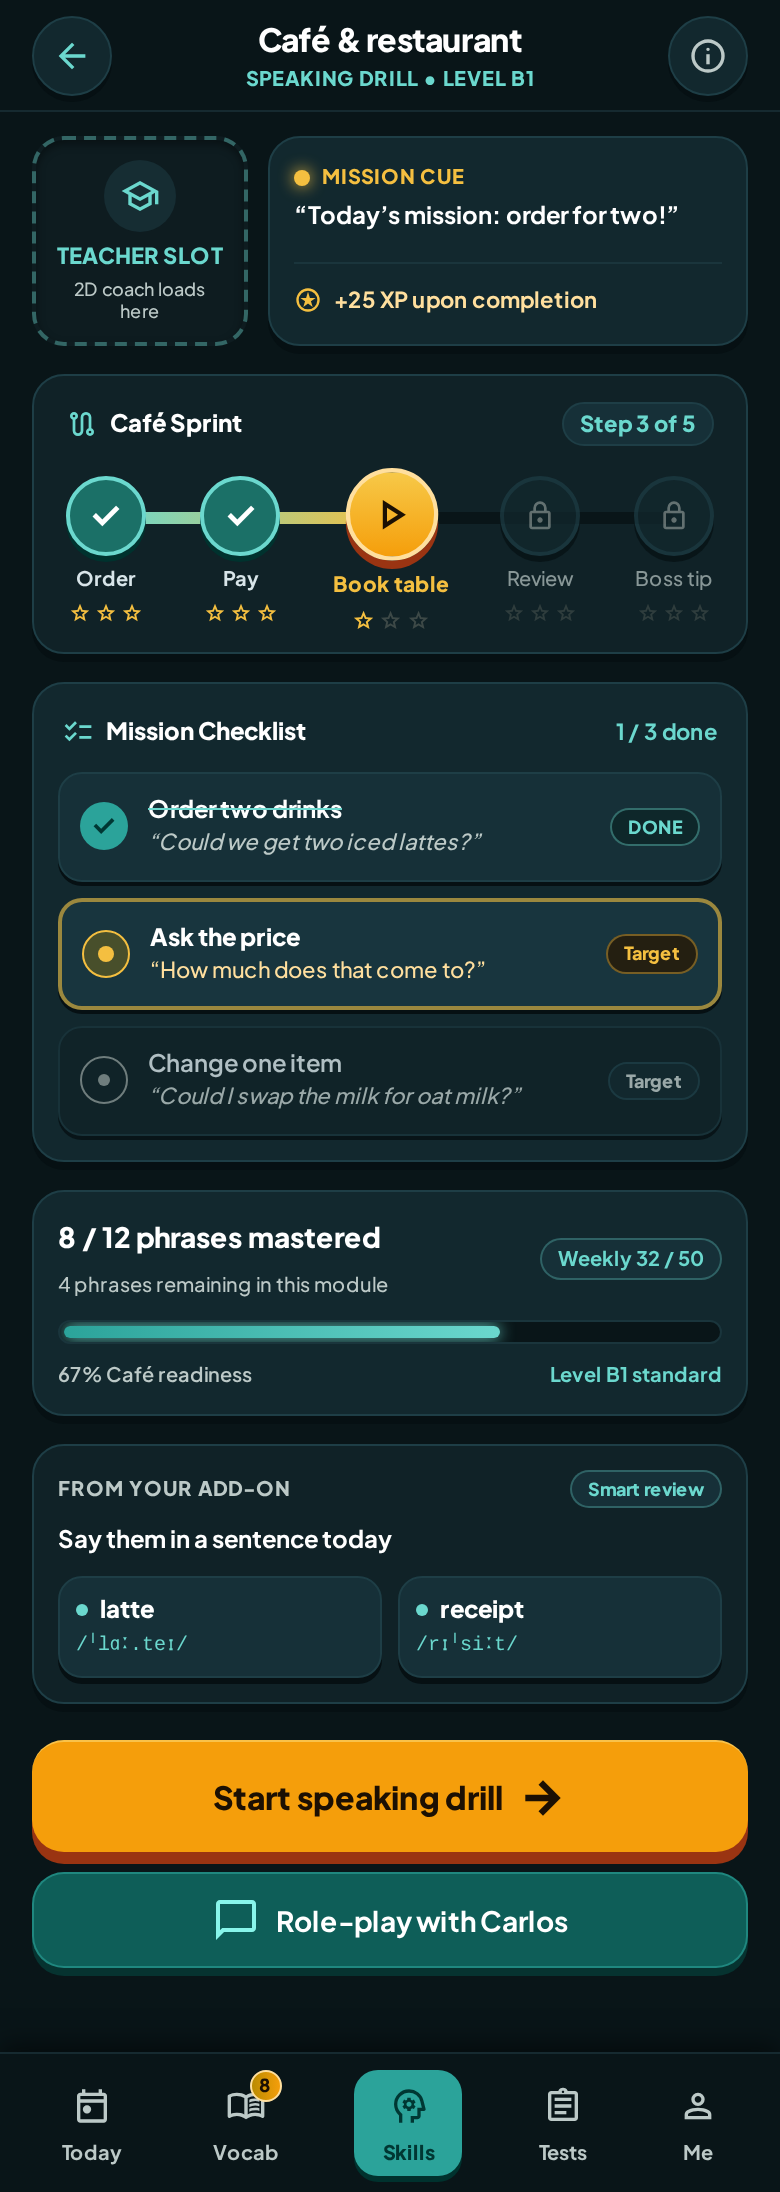
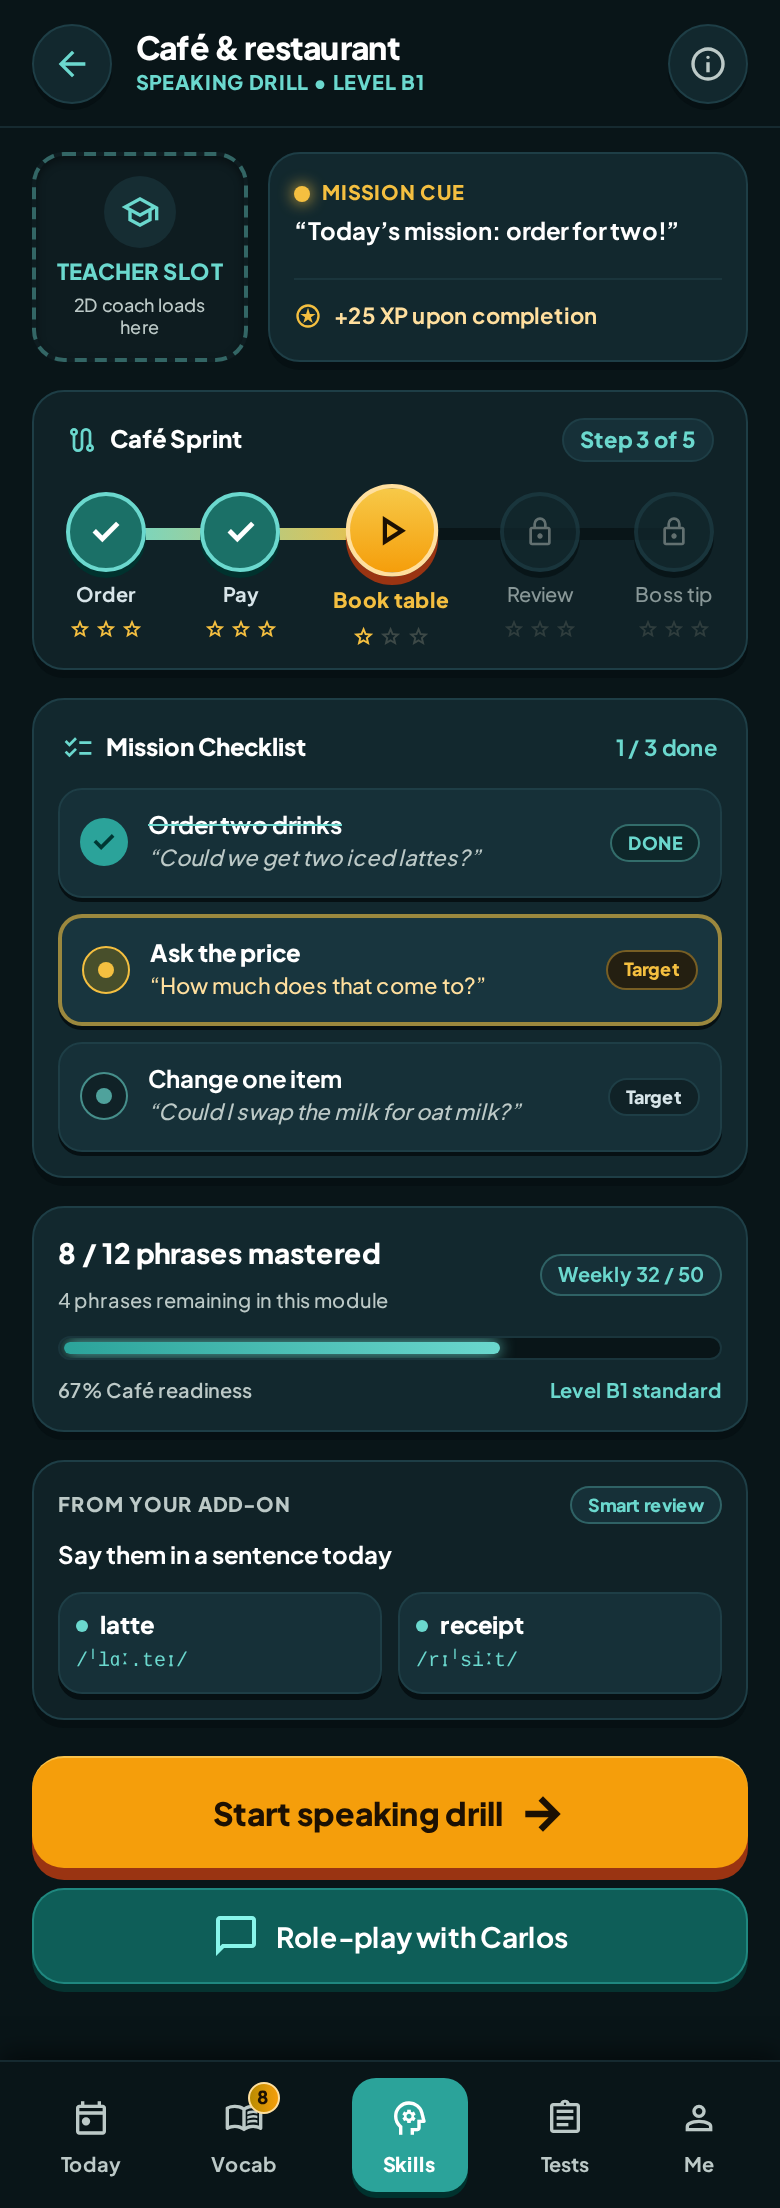
Play & Speak M0: bản tối màn tình huống khớp thanh trên bản sáng, dòng checklist đủ tương phản; chủ OK 2 mẫu

diff --git a/brand/stitch/v2/app/pas-sit-dark.html b/brand/stitch/v2/app/pas-sit-dark.html
@@ -7,7 +7,6 @@
 <link href="https://fonts.googleapis.com" rel="preconnect"/>
 <link crossorigin="" href="https://fonts.gstatic.com" rel="preconnect"/>
 <link href="https://fonts.googleapis.com/css2?family=Plus+Jakarta+Sans:wght@500;600;700;800&amp;family=Material+Symbols+Outlined:wght,FILL@100..700,0..1&amp;display=swap" rel="stylesheet"/>
-<link href="https://fonts.googleapis.com/css2?family=Material+Symbols+Outlined:wght,FILL@100..700,0..1&amp;display=swap" rel="stylesheet"/>
 <script src="https://cdn.tailwindcss.com?plugins=forms,container-queries"></script>
 <script id="tailwind-config">
     tailwind.config = {
@@ -95,20 +94,22 @@
       min-height: max(884px, 100dvh);
     }
   </style>
-  </head>
+</head>
 <body class="bg-[#050b0d] text-on-surface antialiased flex justify-center min-h-screen select-none font-body">
 <!-- Mobile Viewport Canvas strictly 390px, zero outer mockup frame -->
 <div class="w-full max-w-[390px] min-h-screen bg-background relative flex flex-col pb-28 shadow-2xl">
-<!-- Top Bar -->
-<header class="sticky top-0 z-40 bg-surface/95 backdrop-blur-md px-4 h-14 flex items-center justify-between border-b border-[#162a30]">
-<button class="w-10 h-10 rounded-full bg-[#12282e] border border-[#1e3e46] shadow-[0_3px_0_#061013] active:translate-y-[2px] active:shadow-[0_1px_0_#061013] flex items-center justify-center text-primary transition-all">
+<!-- Top Bar (Left-aligned title matching light layout) -->
+<header class="sticky top-0 z-40 bg-surface/95 backdrop-blur-md px-4 h-16 flex items-center justify-between border-b border-[#162a30]">
+<div class="flex items-center gap-3">
+<button class="w-10 h-10 rounded-full bg-[#12282e] border border-[#1e3e46] shadow-[0_3px_0_#061013] active:translate-y-[2px] active:shadow-[0_1px_0_#061013] flex items-center justify-center text-primary transition-all flex-shrink-0">
 <span class="material-symbols-outlined text-xl">arrow_back</span>
 </button>
-<div class="flex flex-col items-center text-center">
-<h1 class="text-base font-extrabold text-white tracking-tight">Café &amp; restaurant</h1>
+<div class="flex flex-col text-left">
+<h1 class="text-base font-extrabold text-white tracking-tight leading-tight">Café &amp; restaurant</h1>
 <span class="text-[10px] font-extrabold tracking-wider text-primary">SPEAKING DRILL • LEVEL B1</span>
 </div>
-<button class="w-10 h-10 rounded-full bg-[#12282e] border border-[#1e3e46] shadow-[0_3px_0_#061013] active:translate-y-[2px] active:shadow-[0_1px_0_#061013] flex items-center justify-center text-on-surface-variant transition-all">
+</div>
+<button class="w-10 h-10 rounded-full bg-[#12282e] border border-[#1e3e46] shadow-[0_3px_0_#061013] active:translate-y-[2px] active:shadow-[0_1px_0_#061013] flex items-center justify-center text-on-surface-variant transition-all flex-shrink-0">
 <span class="material-symbols-outlined text-xl">info</span>
 </button>
 </header>
@@ -216,7 +217,7 @@
 </div>
 </div>
 </section>
-<!-- Mission Checklist (1/3 done) -->
+<!-- Mission Checklist (1/3 done - crisp readability on all rows) -->
 <section class="rounded-2xl bg-[#12282E] border border-[#1E3E46] p-3 shadow-[0_4px_0_#061013] flex flex-col gap-2">
 <div class="flex items-center justify-between px-0.5">
 <span class="text-xs font-extrabold text-white flex items-center gap-1.5">
@@ -251,18 +252,18 @@
 </div>
 <span class="bg-[#241f11] text-tertiary border border-tertiary/40 text-[9px] font-extrabold px-2 py-0.5 rounded-full">Target</span>
 </div>
-<!-- Checklist Item 3 -->
-<div class="bg-[#102227] border border-[#1a353c] rounded-xl p-2.5 flex items-center justify-between opacity-80 shadow-[0_2px_0_#061013]">
+<!-- Checklist Item 3 (Full crisp contrast & readability, no dimming or graying out) -->
+<div class="bg-[#163038] border border-[#1e3e46] rounded-xl p-2.5 flex items-center justify-between shadow-[0_2px_0_#061013]">
 <div class="flex items-center gap-2.5">
-<div class="w-6 h-6 rounded-full border border-outline flex items-center justify-center flex-shrink-0">
-<div class="w-1.5 h-1.5 rounded-full bg-outline"></div>
+<div class="w-6 h-6 rounded-full border border-primary/60 bg-[#102227] flex items-center justify-center flex-shrink-0">
+<div class="w-2 h-2 rounded-full bg-primary/70"></div>
 </div>
 <div class="flex flex-col">
-<span class="text-xs font-semibold text-on-surface">Change one item</span>
+<span class="text-xs font-bold text-white">Change one item</span>
 <span class="text-[11px] text-on-surface-variant italic">“Could I swap the milk for oat milk?”</span>
 </div>
 </div>
-<span class="bg-[#12282e] text-on-surface-variant border border-[#1e3e46] text-[9px] font-extrabold px-2 py-0.5 rounded-full">Target</span>
+<span class="bg-[#102227] text-on-surface border border-[#1e3e46] text-[9px] font-extrabold px-2 py-0.5 rounded-full">Target</span>
 </div>
 </section>
 <!-- Phrases Mastered Card -->
@@ -313,19 +314,19 @@
 </section>
 <!-- Action Buttons -->
 <section class="flex flex-col gap-2.5 pt-1">
-<!-- Primary CTA Button: Candy sunny orange with deep brown-black ink & 3D ledge -->
-<button class="w-full h-14 rounded-2xl bg-[#f59e0b] hover:bg-[#fbbf24] active:translate-y-[3px] active:shadow-[0_2px_0_#9a3412] shadow-[0_6px_0_#9a3412] border-t border-[#fde68a]/50 text-[#1c1003] font-headline font-extrabold text-base flex items-center justify-center gap-2 transition-all">
+<!-- Primary CTA Button: Candy sunny orange with deep brown-black ink (#1C1003) & 3D drop ledge -->
+<button class="w-full h-14 rounded-2xl bg-[#f59e0b] hover:bg-[#fbbf24] active:translate-y-[3px] active:shadow-[0_2px_0_#9a3412] shadow-[0_6px_0_#9a3412] border-t border-[#fde68a]/50 text-[#1C1003] font-headline font-extrabold text-base flex items-center justify-center gap-2 transition-all">
 <span>Start speaking drill</span>
 <span class="material-symbols-outlined font-black">arrow_forward</span>
 </button>
-<!-- Secondary CTA: Role-play with Carlos in deep tactile teal -->
+<!-- Secondary CTA: Role-play with Carlos in deep tactile teal with speech bubble -->
 <button class="w-full h-12 rounded-2xl bg-[#0e5e58] hover:bg-[#12726b] active:translate-y-[2px] active:shadow-[0_2px_0_#063330] shadow-[0_4px_0_#063330] border border-[#2ba39a]/60 text-white font-headline font-bold text-sm flex items-center justify-center gap-2 transition-all">
 <span class="material-symbols-outlined text-primary-fixed">chat_bubble</span>
 <span>Role-play with Carlos</span>
 </button>
 </section>
 </main>
-<!-- Docked Bottom Navigation Bar (5 tabs across exactly 390px) -->
+<!-- Docked Bottom Navigation Bar (5 tabs evenly distributed across 390px canvas) -->
 <nav class="fixed bottom-0 w-full max-w-[390px] z-50 bg-[#091518]/95 backdrop-blur-md px-2 py-2 flex justify-around items-center border-t border-[#162a30] shadow-[0_-4px_12px_rgba(0,0,0,0.5)]">
 <!-- Tab 1: Today -->
 <button class="flex flex-col items-center justify-center text-on-surface-variant hover:text-white px-2 py-1 transition-all active:translate-y-[1px]">
@@ -340,8 +341,8 @@
 </div>
 <span class="text-[10px] font-bold mt-0.5">Vocab</span>
 </button>
-<!-- Tab 3: Skills (ACTIVE TAB: tactile teal glowing pill) -->
-<button class="flex flex-col items-center justify-center bg-primary-container text-on-primary rounded-xl px-3.5 py-1 shadow-[0_3px_0_#00322e] active:translate-y-[2px] transition-all">
+<!-- Tab 3: Skills (ACTIVE TAB: tactile teal glowing pill with white text) -->
+<button class="flex flex-col items-center justify-center bg-primary-container text-white rounded-xl px-4 py-1.5 shadow-[0_3px_0_#00322e] active:translate-y-[2px] transition-all">
 <span class="material-symbols-outlined material-symbols-fill text-xl">psychology</span>
 <span class="text-[10px] font-extrabold mt-0.5">Skills</span>
 </button>
